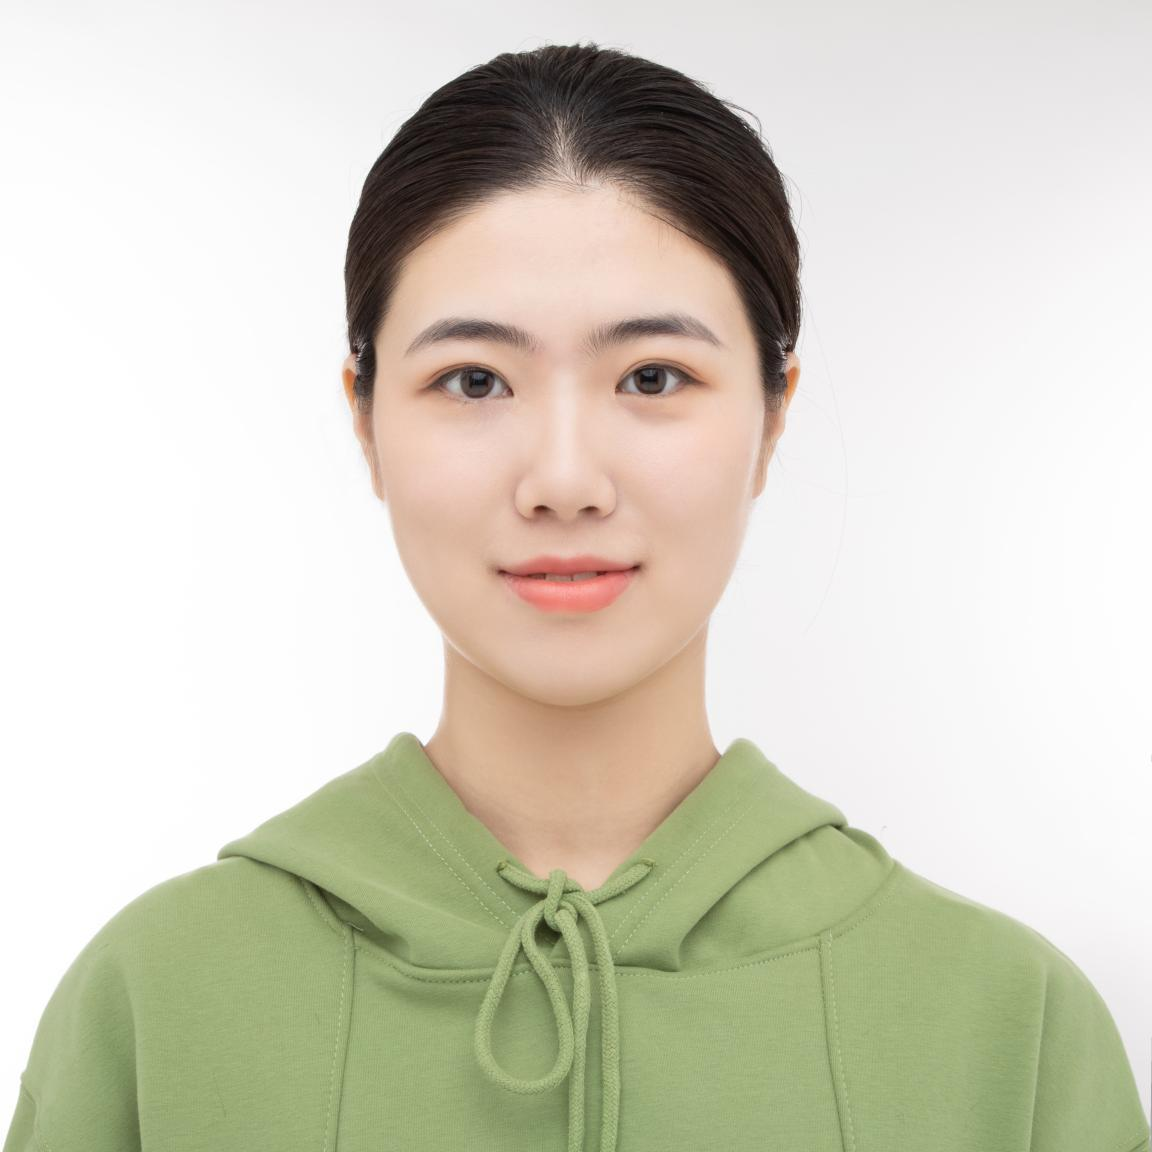
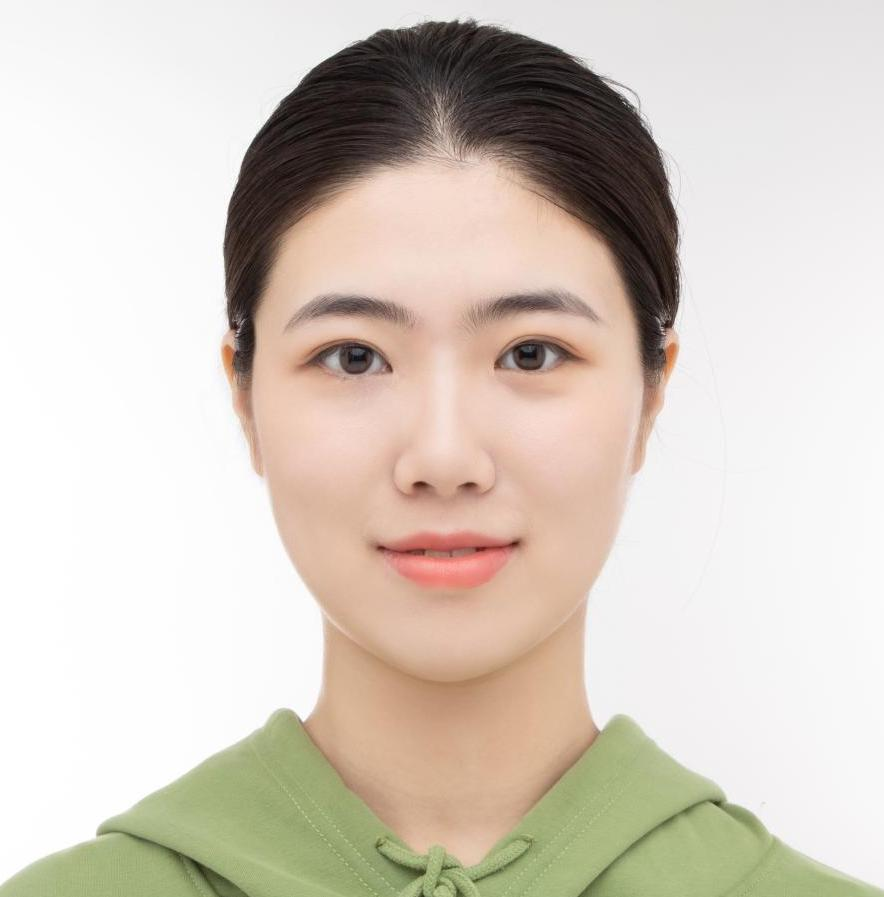
updated

diff --git a/members.html b/members.html
@@ -76,7 +76,7 @@ _gaq.push(['_trackPageview']);
 <p><table class="imgtable"><tbody><tr></p>
 <p><td><img src="./image/eniola.jpeg" alt="SC" width="100px" height="130px">&nbsp;&nbsp;&nbsp;&nbsp;&nbsp;&nbsp;</a></td></p>
 <p><td><img src="./image/jack.jpeg" alt="SC" width="100px" height="130px">&nbsp;&nbsp;&nbsp;&nbsp;&nbsp;&nbsp;</a></td></p>
-<p><td><img src="./image/mingyan.jpg" alt="SC" width="100px" height="130px">&nbsp;&nbsp;&nbsp;&nbsp;&nbsp;&nbsp;</a></td></p>
+<p><td><img src="./image/mingyan.jpg" alt="SC" width="100px" height="150px">&nbsp;&nbsp;&nbsp;&nbsp;&nbsp;&nbsp;</a></td></p>
 <p></tr><tr></p>
 <p><td align="center">Eniola Mosaku&nbsp;&nbsp;&nbsp;&nbsp;&nbsp;&nbsp;</td></p>
 <p><td align="center">Jack Willis&nbsp;&nbsp;&nbsp;&nbsp;&nbsp;&nbsp;</td></p>
@@ -128,7 +128,7 @@ _gaq.push(['_trackPageview']);
 <td align="left"></td></tr></table>
 <div id="footer">
 <div id="footer-text">
-Page generated 2022-04-13 23:39:11 EDT, by <a href="http://jemdoc.jaboc.net/">jemdoc</a>.
+Page generated 2022-04-13 23:42:55 EDT, by <a href="http://jemdoc.jaboc.net/">jemdoc</a>.
 </div>
 </div>
 </td>

diff --git a/recruit.html b/recruit.html
@@ -38,7 +38,7 @@ _gaq.push(['_trackPageview']);
 <p>There may be visitor scholarship and postdocs in Dr. Tang's group. Send your email to ytang100@syr.edu for inquiry.<a href="https://clustrmaps.com/site/1bk8k"  title="Visit tracker"><img src="//www.clustrmaps.com/map_v2.png?d=IuvVaQ4wCNcV6DqieJGB2mopN9ic_snacqB8PISQufM&cl=ffffff" width="1px" /></a></p>
 <div id="footer">
 <div id="footer-text">
-Page generated 2022-04-13 23:39:11 EDT, by <a href="http://jemdoc.jaboc.net/">jemdoc</a>.
+Page generated 2022-04-13 23:42:55 EDT, by <a href="http://jemdoc.jaboc.net/">jemdoc</a>.
 </div>
 </div>
 </div>

diff --git a/index.html b/index.html
@@ -192,7 +192,7 @@ Ph.D.: Georgia Tech., B.Sc.: Fudan Univ. <a href="https://clustrmaps.com/site/1b
 </ul>
 <div id="footer">
 <div id="footer-text">
-Page generated 2022-04-13 23:39:11 EDT, by <a href="http://jemdoc.jaboc.net/">jemdoc</a>.
+Page generated 2022-04-13 23:42:55 EDT, by <a href="http://jemdoc.jaboc.net/">jemdoc</a>.
 </div>
 </div>
 </td>

diff --git a/nsf_blocklog.html b/nsf_blocklog.html
@@ -84,7 +84,7 @@ _gaq.push(['_trackPageview']);
 </ul>
 <div id="footer">
 <div id="footer-text">
-Page generated 2022-04-13 23:39:11 EDT, by <a href="http://jemdoc.jaboc.net/">jemdoc</a>.
+Page generated 2022-04-13 23:42:55 EDT, by <a href="http://jemdoc.jaboc.net/">jemdoc</a>.
 </div>
 </div>
 </div>

diff --git a/tenure.html b/tenure.html
@@ -113,7 +113,7 @@ width="800" />
 </ul>
 <div id="footer">
 <div id="footer-text">
-Page generated 2022-04-13 23:39:11 EDT, by <a href="http://jemdoc.jaboc.net/">jemdoc</a>.
+Page generated 2022-04-13 23:42:55 EDT, by <a href="http://jemdoc.jaboc.net/">jemdoc</a>.
 </div>
 </div>
 </div>

diff --git a/research.html b/research.html
@@ -97,7 +97,7 @@ width="800" />
 </ul>
 <div id="footer">
 <div id="footer-text">
-Page generated 2022-04-13 23:39:11 EDT, by <a href="http://jemdoc.jaboc.net/">jemdoc</a>.
+Page generated 2022-04-13 23:42:55 EDT, by <a href="http://jemdoc.jaboc.net/">jemdoc</a>.
 </div>
 </div>
 </div>
